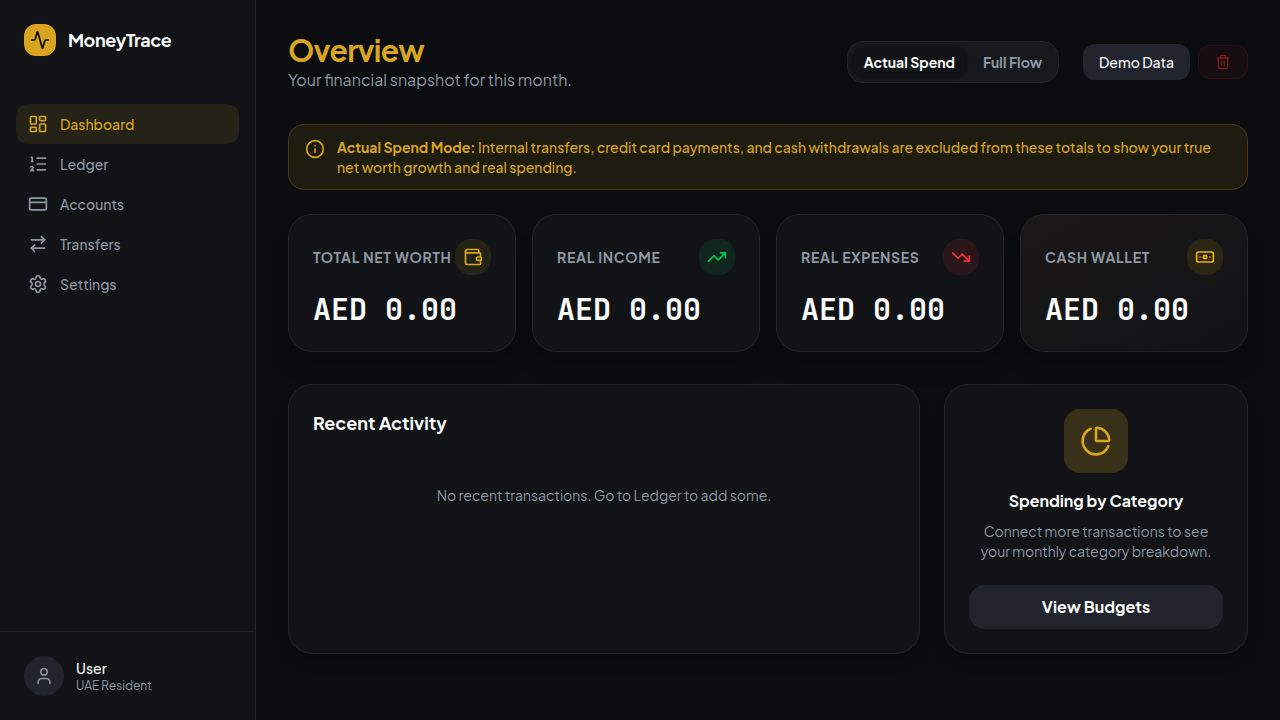
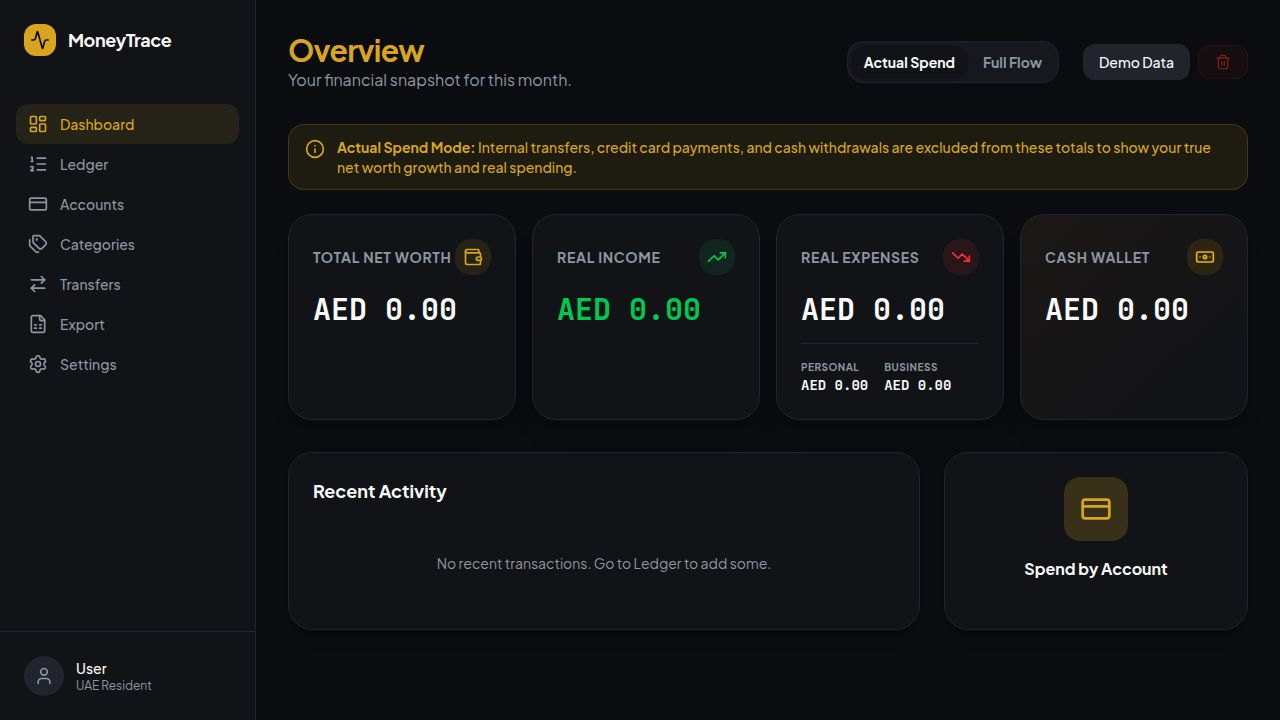
Add a dedicated page for managing custom categories
Introduce a new Categories page with functionality to add, edit, and delete custom categories, and integrate it into the application's routing and sidebar navigation.

Replit-Commit-Author: Agent
Replit-Commit-Session-Id: 321b1560-2fd3-4c87-88f2-648888fbe74a
Replit-Commit-Checkpoint-Type: full_checkpoint
Replit-Commit-Event-Id: 3448fca7-56b0-4933-9b30-353098aedcf3
Replit-Commit-Screenshot-Url: https://storage.googleapis.com/screenshot-production-us-central1/a7bf605d-3b8b-4abf-9f73-33f1fc25cca8/321b1560-2fd3-4c87-88f2-648888fbe74a/v12hOj7
Replit-Helium-Checkpoint-Created: true

diff --git a/client/src/pages/Categories.tsx b/client/src/pages/Categories.tsx
@@ -1,0 +1,188 @@
+import { useState } from "react";
+import { useFinanceStore } from "@/store/financeStore";
+import * as Icons from "lucide-react";
+import { Category } from "@/types/finance";
+
+export function Categories() {
+  const { categories, addCategory, updateCategory, deleteCategory } = useFinanceStore();
+  const [isAdding, setIsAdding] = useState(false);
+  const [editingCat, setEditingCat] = useState<Category | null>(null);
+  
+  // Group categories
+  const expenseCats = categories.filter(c => c.type === 'expense');
+  const incomeCats = categories.filter(c => c.type === 'income');
+  const transferCats = categories.filter(c => c.type === 'transfer');
+
+  const handleSave = (e: React.FormEvent<HTMLFormElement>) => {
+    e.preventDefault();
+    const formData = new FormData(e.currentTarget);
+    const name = formData.get('name') as string;
+    const type = formData.get('type') as 'expense' | 'income' | 'transfer';
+    const color = formData.get('color') as string || '#3b82f6';
+    const icon = formData.get('icon') as string || 'Tag';
+
+    if (editingCat) {
+      updateCategory(editingCat.id, { name, type, color, icon });
+    } else {
+      addCategory({ name, type, color, icon, isCustom: true } as any);
+    }
+    
+    setIsAdding(false);
+    setEditingCat(null);
+  };
+
+  const renderCategoryGroup = (title: string, list: Category[]) => (
+    <div className="mb-8">
+      <h2 className="text-lg font-bold mb-4 capitalize">{title}</h2>
+      <div className="grid grid-cols-2 md:grid-cols-3 lg:grid-cols-4 gap-4">
+        {list.map(c => {
+          const Icon = (Icons as any)[c.icon] || Icons.Tag;
+          return (
+            <div key={c.id} className="p-4 rounded-2xl border border-border bg-card shadow-sm flex items-center justify-between group">
+              <div className="flex items-center gap-3 truncate">
+                <div 
+                  className="w-10 h-10 rounded-xl flex items-center justify-center shrink-0"
+                  style={{ backgroundColor: `${c.color}15`, color: c.color }}
+                >
+                  <Icon className="w-5 h-5" />
+                </div>
+                <div className="truncate">
+                  <p className="font-bold text-sm truncate">{c.name}</p>
+                  {c.isCustom && <p className="text-[10px] text-muted-foreground uppercase tracking-wider">Custom</p>}
+                </div>
+              </div>
+              
+              {c.isCustom && (
+                <div className="flex items-center gap-1 opacity-0 group-hover:opacity-100 transition-opacity">
+                  <button 
+                    onClick={() => { setEditingCat(c); setIsAdding(true); }}
+                    className="p-1.5 text-muted-foreground hover:text-primary hover:bg-primary/10 rounded-lg transition-colors"
+                  >
+                    <Icons.Edit2 className="w-4 h-4" />
+                  </button>
+                  <button 
+                    onClick={() => {
+                      if(confirm(`Delete category "${c.name}"? Transactions will become Uncategorized.`)) {
+                        deleteCategory(c.id);
+                      }
+                    }}
+                    className="p-1.5 text-muted-foreground hover:text-destructive hover:bg-destructive/10 rounded-lg transition-colors"
+                  >
+                    <Icons.Trash2 className="w-4 h-4" />
+                  </button>
+                </div>
+              )}
+            </div>
+          );
+        })}
+      </div>
+    </div>
+  );
+
+  return (
+    <div className="space-y-6 animate-in fade-in slide-in-from-bottom-4 duration-500 pb-24">
+      <div className="flex flex-col md:flex-row justify-between items-start md:items-center gap-4">
+        <div>
+          <h1 className="text-3xl font-bold tracking-tight text-primary">Categories</h1>
+          <p className="text-muted-foreground">Manage your custom spending and income categories.</p>
+        </div>
+        <button 
+          onClick={() => { setEditingCat(null); setIsAdding(true); }}
+          className="flex items-center gap-2 px-4 py-2 bg-primary text-primary-foreground rounded-lg hover:bg-primary/90 transition-colors text-sm font-medium shadow-lg shadow-primary/20"
+        >
+          <Icons.Plus className="h-4 w-4" />
+          Add Category
+        </button>
+      </div>
+
+      {renderCategoryGroup("Expenses", expenseCats)}
+      {renderCategoryGroup("Income", incomeCats)}
+      {renderCategoryGroup("Transfers", transferCats)}
+
+      {isAdding && (
+        <div className="fixed inset-0 z-50 bg-background/80 backdrop-blur-sm flex items-center justify-center p-4 animate-in fade-in duration-200">
+          <div className="bg-card border border-border p-6 rounded-3xl shadow-2xl max-w-md w-full animate-in zoom-in-95 duration-200">
+            <h2 className="text-xl font-bold mb-6">{editingCat ? 'Edit Category' : 'New Category'}</h2>
+            
+            <form onSubmit={handleSave} className="space-y-4">
+              <div>
+                <label className="block text-xs font-semibold text-muted-foreground uppercase tracking-wider mb-2">Name</label>
+                <input 
+                  type="text" 
+                  name="name"
+                  required
+                  defaultValue={editingCat?.name || ''} 
+                  placeholder="e.g. Coffee" 
+                  className="w-full px-4 py-3 bg-secondary/30 border border-border rounded-xl focus:outline-none focus:ring-1 focus:ring-primary/50 text-sm" 
+                />
+              </div>
+
+              <div>
+                <label className="block text-xs font-semibold text-muted-foreground uppercase tracking-wider mb-2">Type</label>
+                <div className="flex bg-secondary/30 p-1 rounded-xl border border-border">
+                   {(['expense', 'income', 'transfer'] as const).map(t => (
+                      <label key={t} className="flex-1 cursor-pointer">
+                        <input type="radio" name="type" value={t} defaultChecked={editingCat ? editingCat.type === t : t === 'expense'} className="peer hidden" />
+                        <div className="text-center py-2 text-sm font-bold text-muted-foreground peer-checked:bg-card peer-checked:text-foreground peer-checked:shadow rounded-lg transition-all capitalize">
+                          {t}
+                        </div>
+                      </label>
+                   ))}
+                </div>
+              </div>
+              
+              <div className="grid grid-cols-2 gap-4">
+                <div>
+                  <label className="block text-xs font-semibold text-muted-foreground uppercase tracking-wider mb-2">Color (Hex)</label>
+                  <div className="flex items-center gap-2">
+                    <input 
+                      type="color" 
+                      name="color"
+                      defaultValue={editingCat?.color || '#3b82f6'} 
+                      className="h-10 w-10 rounded cursor-pointer bg-transparent border-0 p-0" 
+                    />
+                    <input 
+                      type="text" 
+                      defaultValue={editingCat?.color || '#3b82f6'} 
+                      className="flex-1 px-3 py-2 bg-secondary/30 border border-border rounded-lg focus:outline-none focus:ring-1 focus:ring-primary/50 text-sm font-mono" 
+                      onChange={(e) => {
+                        const colorInput = e.target.previousElementSibling as HTMLInputElement;
+                        if(colorInput) colorInput.value = e.target.value;
+                      }}
+                    />
+                  </div>
+                </div>
+                <div>
+                  <label className="block text-xs font-semibold text-muted-foreground uppercase tracking-wider mb-2">Icon</label>
+                  <input 
+                    type="text" 
+                    name="icon"
+                    defaultValue={editingCat?.icon || 'Tag'} 
+                    placeholder="Lucide Icon name"
+                    className="w-full px-3 py-2.5 bg-secondary/30 border border-border rounded-lg focus:outline-none focus:ring-1 focus:ring-primary/50 text-sm font-mono mt-1" 
+                  />
+                </div>
+              </div>
+
+              <div className="mt-8 flex justify-end gap-3 pt-4 border-t border-border">
+                <button 
+                  type="button"
+                  onClick={() => setIsAdding(false)}
+                  className="px-6 py-2.5 bg-secondary text-secondary-foreground rounded-xl hover:bg-secondary/80 transition-colors font-bold"
+                >
+                  Cancel
+                </button>
+                <button 
+                  type="submit"
+                  className="px-6 py-2.5 bg-primary text-primary-foreground rounded-xl hover:bg-primary/90 transition-colors font-bold shadow-lg shadow-primary/20"
+                >
+                  Save Category
+                </button>
+              </div>
+            </form>
+          </div>
+        </div>
+      )}
+    </div>
+  );
+}

diff --git a/client/src/pages/Home.tsx b/client/src/pages/Home.tsx
@@ -24,6 +24,20 @@ export function Dashboard() {
   const cashWallet = cards.find(c => c.type === 'cash');
   const cashBalance = cashWallet ? transactions.filter(t => t.cardId === cashWallet.id).reduce((acc, tx) => acc + tx.amount, 0) : 0;
 
+  const personalTxs = effectiveTxs.filter(t => t.type === 'expense' && t.tag === 'personal');
+  const businessTxs = effectiveTxs.filter(t => t.type === 'expense' && t.tag === 'business');
+  
+  const personalExpenses = personalTxs.reduce((acc, tx) => acc + Math.abs(tx.amount), 0);
+  const businessExpenses = businessTxs.reduce((acc, tx) => acc + Math.abs(tx.amount), 0);
+  
+  // Calculate spend by account
+  const accountSpend: Record<string, number> = {};
+  effectiveTxs.filter(t => t.type === 'expense').forEach(tx => {
+     if (tx.cardId) {
+        accountSpend[tx.cardId] = (accountSpend[tx.cardId] || 0) + Math.abs(tx.amount);
+     }
+  });
+
   return (
     <div className="space-y-8 animate-in fade-in slide-in-from-bottom-4 duration-500 pb-24">
       <div className="flex flex-col md:flex-row justify-between items-start md:items-center gap-4">
@@ -94,7 +108,7 @@ export function Dashboard() {
               <Icons.TrendingUp className="h-5 w-5 text-green-500" />
             </div>
           </div>
-          <div className="text-3xl font-bold text-foreground font-mono mt-2">
+          <div className="text-3xl font-bold text-foreground font-mono mt-2 text-green-500">
             {formatCurrency(income)}
           </div>
         </div>
@@ -107,8 +121,18 @@ export function Dashboard() {
               <Icons.TrendingDown className="h-5 w-5 text-red-500" />
             </div>
           </div>
-          <div className="text-3xl font-bold text-foreground font-mono mt-2">
+          <div className="text-3xl font-bold text-foreground font-mono mt-2 text-foreground">
             {formatCurrency(expenses)}
+          </div>
+          <div className="flex gap-4 mt-4 pt-4 border-t border-border">
+             <div>
+                <p className="text-[10px] text-muted-foreground uppercase font-bold tracking-wider">Personal</p>
+                <p className="font-mono font-bold text-sm">{formatCurrency(personalExpenses)}</p>
+             </div>
+             <div>
+                <p className="text-[10px] text-muted-foreground uppercase font-bold tracking-wider">Business</p>
+                <p className="font-mono font-bold text-sm">{formatCurrency(businessExpenses)}</p>
+             </div>
           </div>
         </div>
 
@@ -158,13 +182,20 @@ export function Dashboard() {
          
          <div className="border border-border rounded-3xl bg-card p-6 shadow-lg flex flex-col items-center justify-center text-center">
              <div className="w-16 h-16 rounded-2xl bg-primary/20 text-primary flex items-center justify-center mb-4">
-                 <Icons.PieChart className="w-8 h-8" />
+                 <Icons.CreditCard className="w-8 h-8" />
              </div>
-             <h3 className="font-bold mb-2">Spending by Category</h3>
-             <p className="text-sm text-muted-foreground mb-6">Connect more transactions to see your monthly category breakdown.</p>
-             <button className="px-6 py-2.5 bg-secondary text-secondary-foreground rounded-xl font-bold w-full hover:bg-secondary/80 transition-colors">
-                 View Budgets
-             </button>
+             <h3 className="font-bold mb-2">Spend by Account</h3>
+             <div className="w-full space-y-2 mt-4 text-left">
+                {Object.entries(accountSpend).sort((a,b) => b[1] - a[1]).slice(0,3).map(([cardId, amount]) => {
+                   const c = cards.find(c => c.id === cardId);
+                   return (
+                     <div key={cardId} className="flex justify-between text-sm items-center">
+                        <span className="text-muted-foreground truncate pr-2">{c?.name || 'Unknown'}</span>
+                        <span className="font-mono font-bold">{formatCurrency(amount)}</span>
+                     </div>
+                   );
+                })}
+             </div>
          </div>
       </div>
     </div>

diff --git a/client/src/pages/Cards.tsx b/client/src/pages/Cards.tsx
@@ -146,19 +146,19 @@ export function Cards() {
               <div>
                 <label className="block text-xs font-semibold text-muted-foreground uppercase tracking-wider mb-2">Account Type</label>
                 <div className="grid grid-cols-3 gap-2">
-                  {(['credit', 'debit', 'cash'] as const).map(type => (
+                  {(['debit', 'credit', 'cash'] as const).map(type => (
                     <button 
                       key={type} 
                       type="button"
-                      onClick={() => setNewCardType(type)}
+                      onClick={(e) => { e.preventDefault(); setNewCardType(type); }}
                       className={`flex flex-col items-center justify-center p-3 rounded-xl border transition-all ${
                         newCardType === type 
-                          ? 'border-primary bg-primary/10 text-primary ring-1 ring-primary/20' 
+                          ? 'border-primary bg-primary/10 text-primary ring-1 ring-primary/20 shadow-md' 
                           : 'border-border bg-background text-foreground hover:bg-secondary/50'
                       }`}
                     >
                       {type === 'cash' ? <Icons.Banknote className="w-5 h-5 mb-1"/> : <Icons.CreditCard className="w-5 h-5 mb-1"/>}
-                      <span className="text-xs font-medium capitalize">{type}</span>
+                      <span className="text-xs font-bold capitalize">{type}</span>
                     </button>
                   ))}
                 </div>

diff --git a/client/src/pages/Transfers.tsx b/client/src/pages/Transfers.tsx
@@ -197,7 +197,10 @@ export function Transfers() {
                           <Icons.Split className="w-3.5 h-3.5" /> Split Row
                         </button>
                         <button 
-                          onClick={() => updateTransaction(tx.id, { isTransferMatched: true, type: tx.amount < 0 ? 'expense' : 'income', categoryId: 'cat_other' })}
+                          onClick={() => {
+                             const { updateTransaction } = useFinanceStore.getState();
+                             updateTransaction(tx.id, { isTransferMatched: true, type: tx.amount < 0 ? 'expense' : 'income', categoryId: 'cat_other' });
+                          }}
                           className="px-3 py-1.5 bg-background border border-border rounded-lg text-xs hover:bg-destructive/10 hover:text-destructive hover:border-destructive/30 transition-colors"
                           title="Dismiss / Not a transfer"
                         >

diff --git a/client/src/App.tsx b/client/src/App.tsx
@@ -2,6 +2,7 @@ import { Switch, Route } from "wouter";
 import { Dashboard } from "./pages/Home";
 import { Ledger } from "./pages/Ledger";
 import { Cards } from "./pages/Cards";
+import { Categories } from "./pages/Categories";
 import { Budgets } from "./pages/Budgets";
 import { Transfers } from "./pages/Transfers";
 import { ExportCenter } from "./pages/Export";
@@ -15,6 +16,7 @@ function Router() {
       <Route path="/" component={Dashboard} />
       <Route path="/ledger" component={Ledger} />
       <Route path="/cards" component={Cards} />
+      <Route path="/categories" component={Categories} />
       <Route path="/transfers" component={Transfers} />
       <Route path="/budgets" component={Budgets} />
       <Route path="/export" component={ExportCenter} />

diff --git a/client/src/components/layout/Sidebar.tsx b/client/src/components/layout/Sidebar.tsx
@@ -9,6 +9,7 @@ export function Sidebar() {
     { name: "Dashboard", href: "/", icon: Icons.LayoutDashboard },
     { name: "Ledger", href: "/ledger", icon: Icons.ListOrdered },
     { name: "Accounts", href: "/cards", icon: Icons.CreditCard },
+    { name: "Categories", href: "/categories", icon: Icons.Tags },
     { name: "Transfers", href: "/transfers", icon: Icons.ArrowRightLeft },
     { name: "Export", href: "/export", icon: Icons.FileSpreadsheet },
     { name: "Settings", href: "/settings", icon: Icons.Settings },
